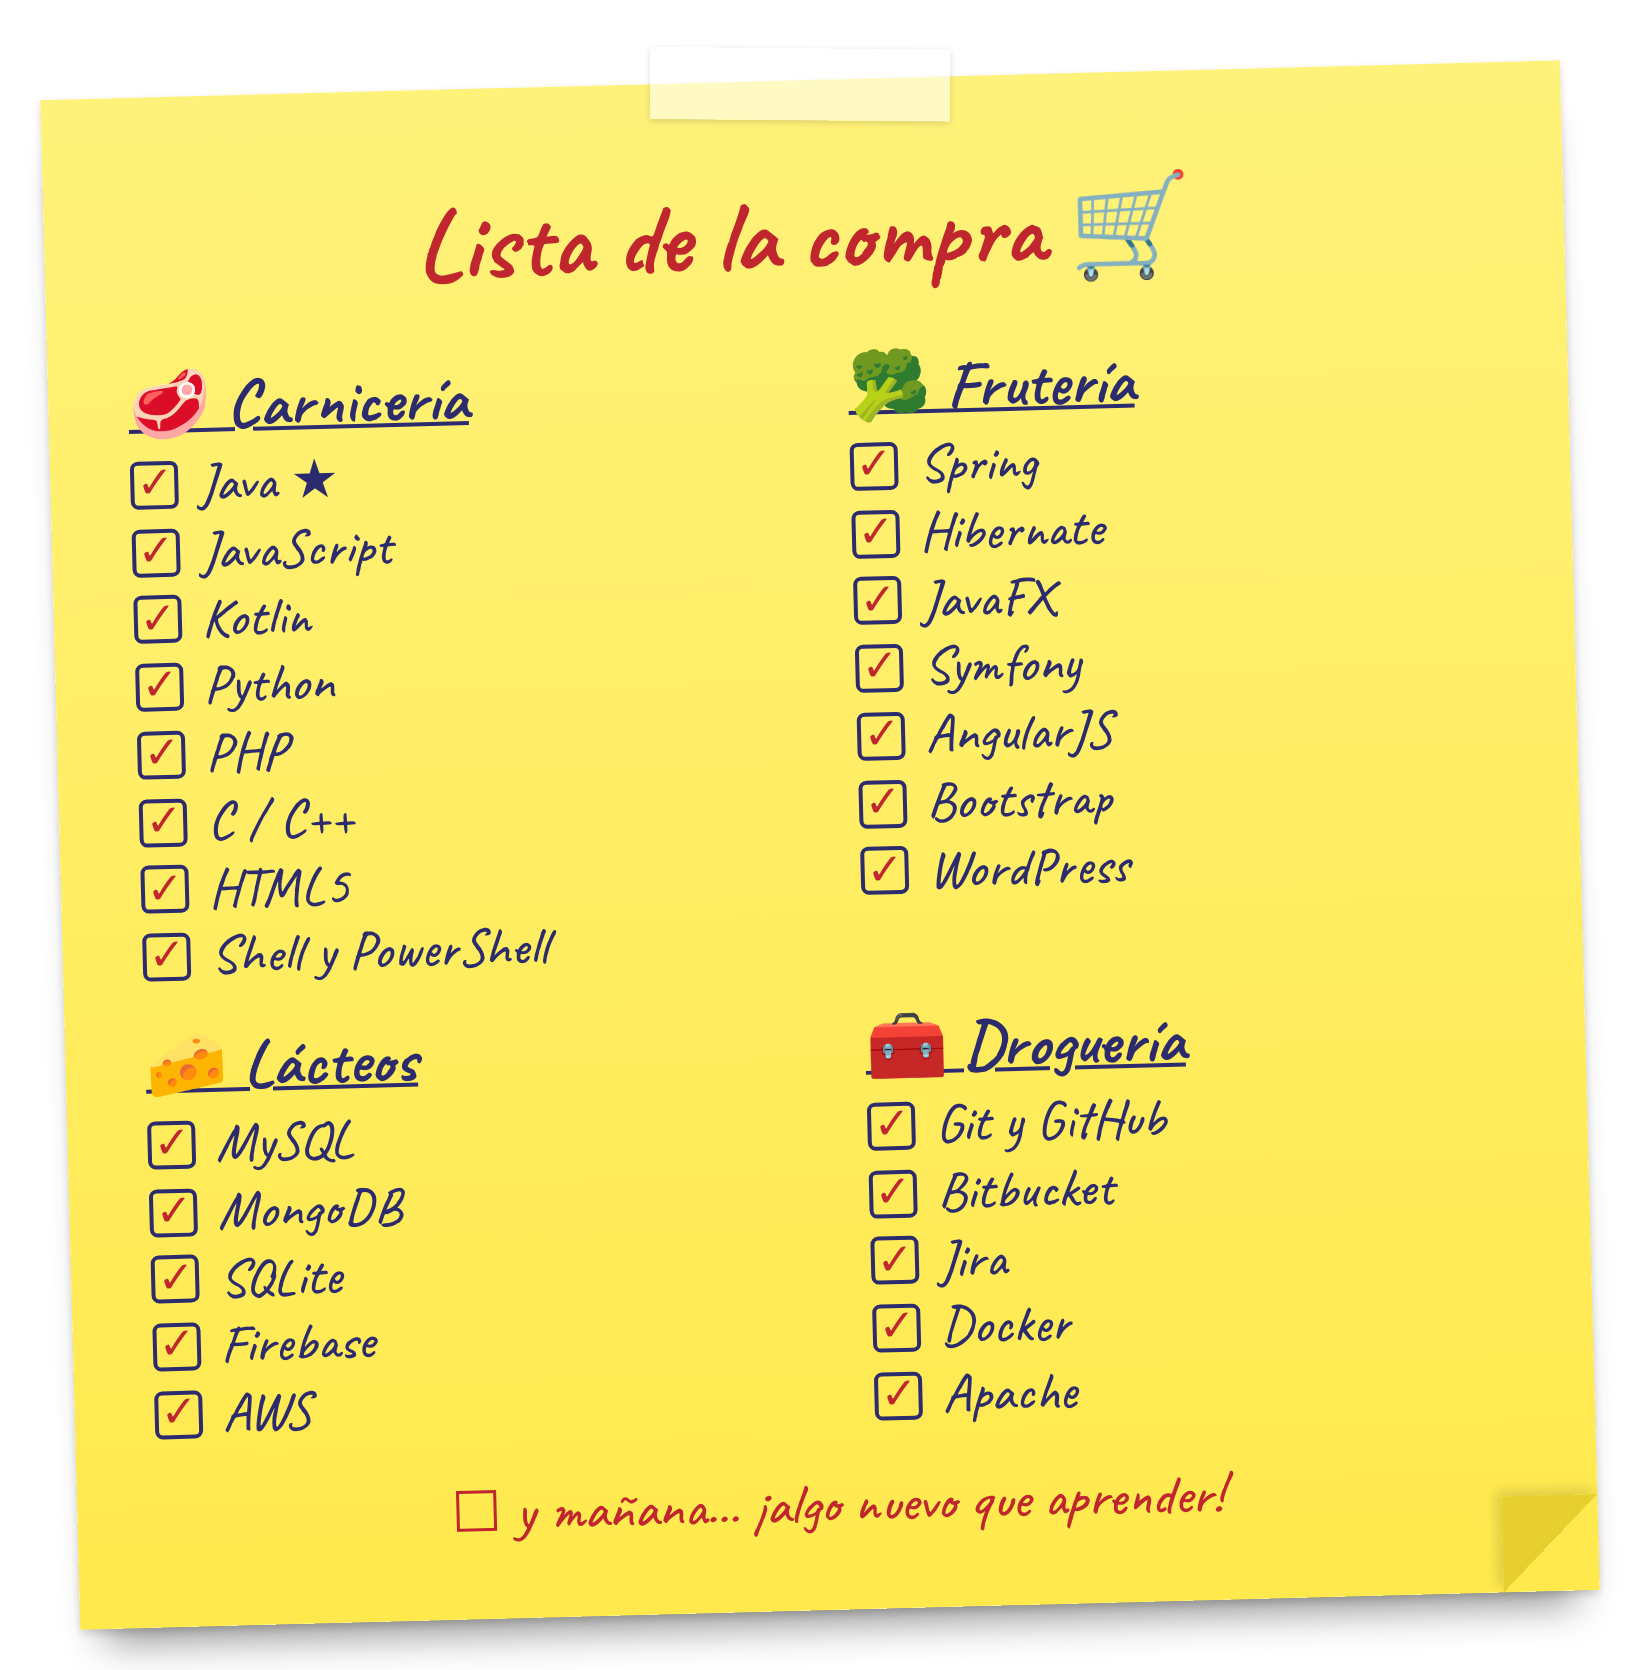
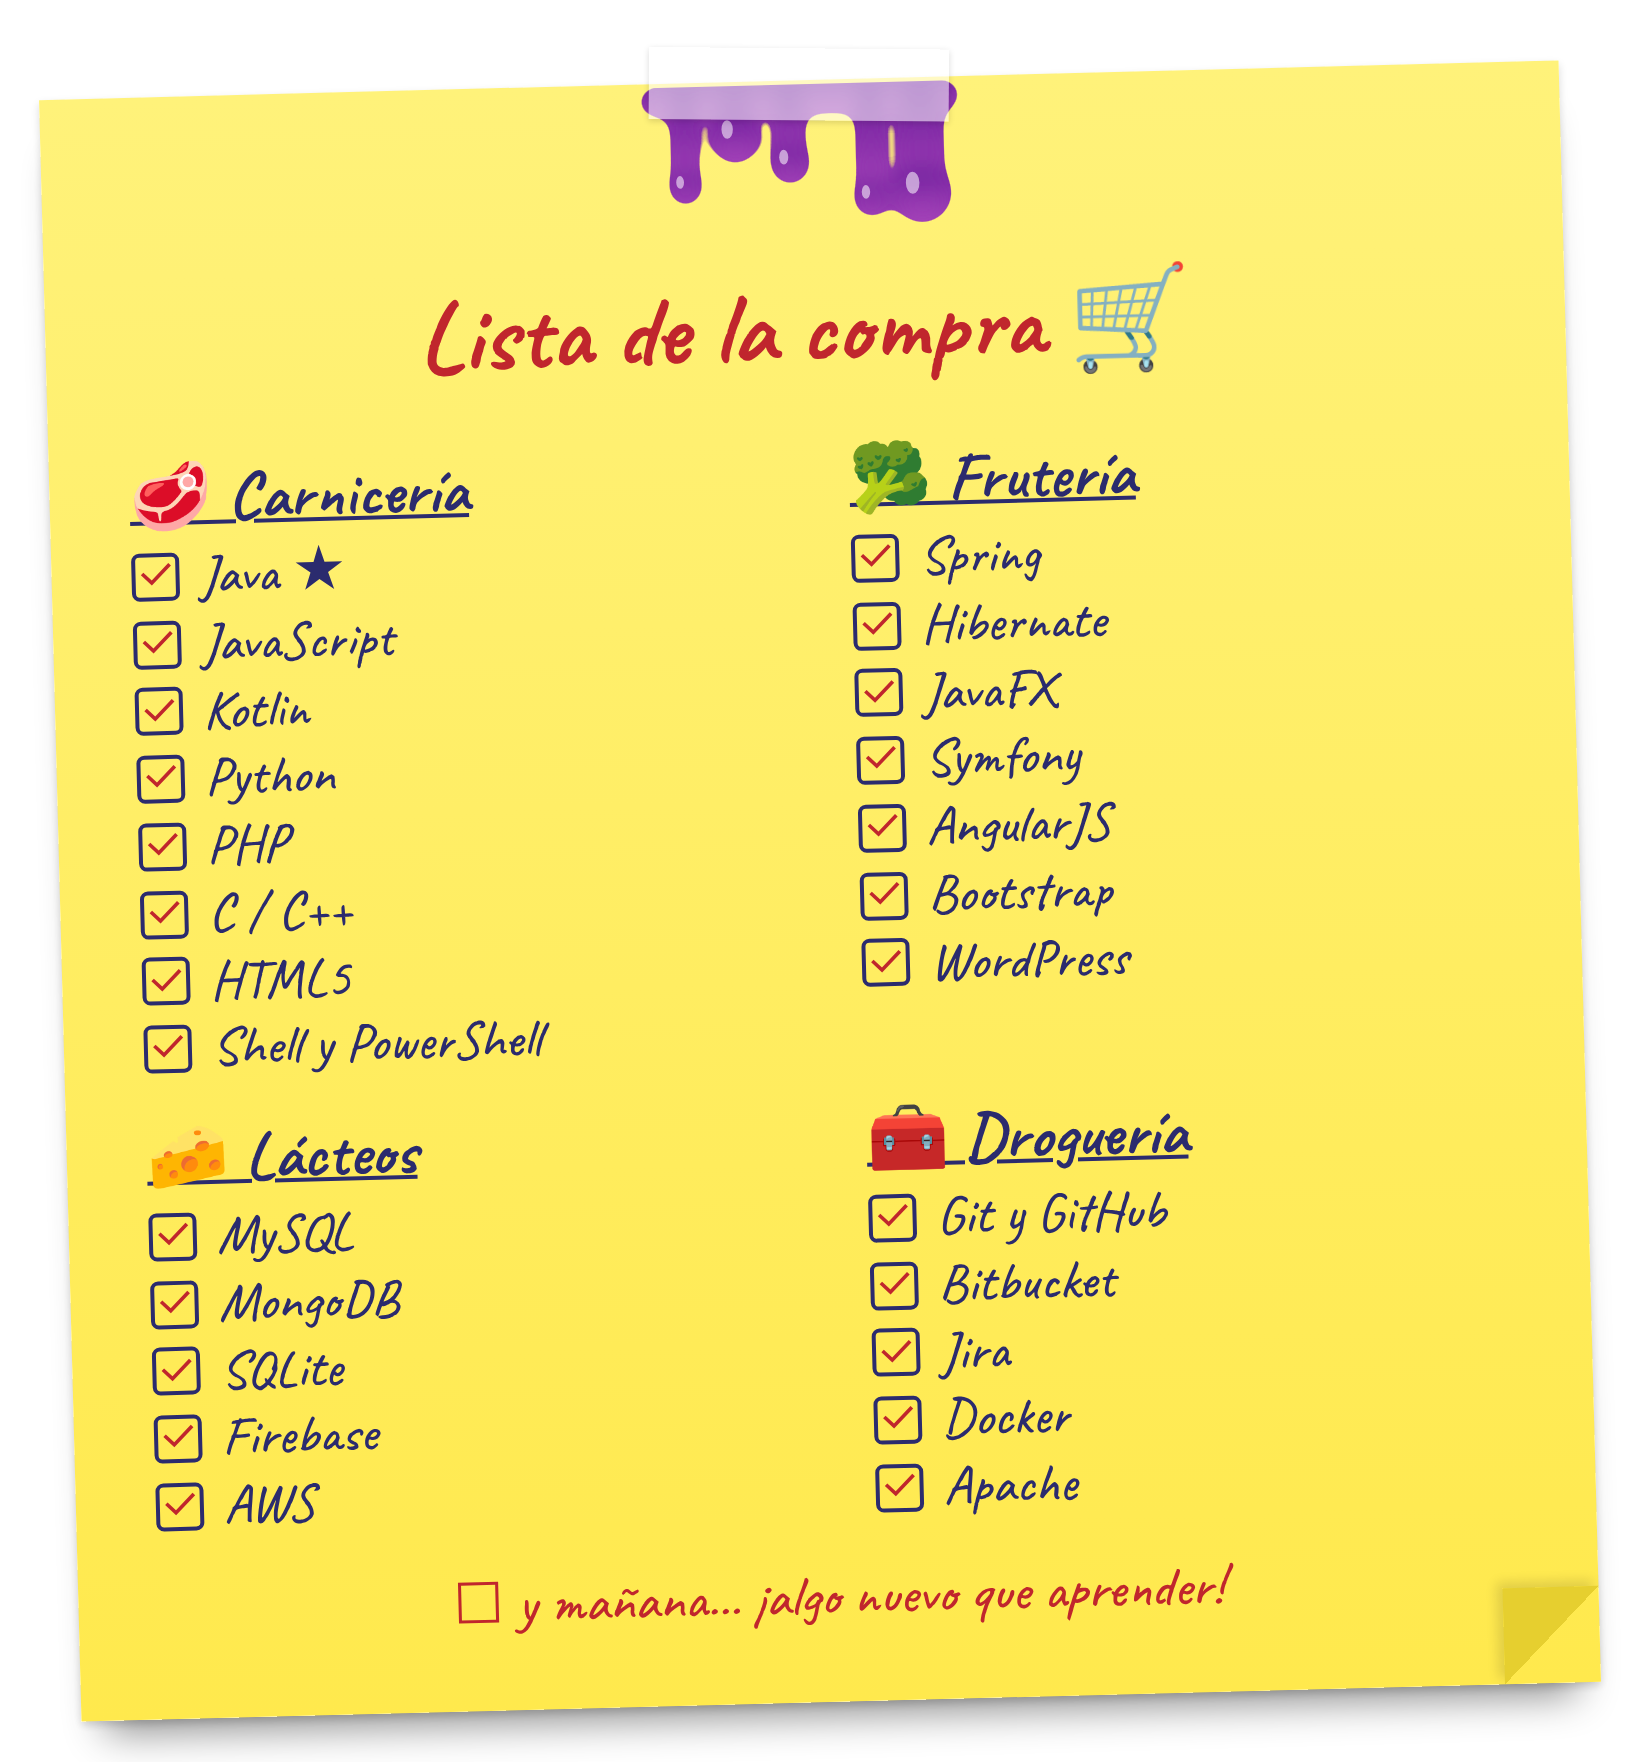
Add sticky purple slime theme to generated images
Purple goo drips from the awning, the offers board, the receipt and the
sticky note tape, and the store name and borders turn purple.

Changed region(s): [[0.0311, 0.0311, 0.7152, 0.8719], [0.2799, 0.5916, 0.7463, 0.9341], [0.9018, 0.8719, 0.964, 0.9653]]

diff --git a/scripts/generate-ticket.js b/scripts/generate-ticket.js
@@ -113,14 +113,16 @@ function render({ items, repos, stars, followers }, now) {
 
   return `<!doctype html><html><head><meta charset="utf-8"><style>
 body{margin:0;background:#e9e4da;display:flex;justify-content:center;padding:40px 0}
-.t{width:420px;background:#fffef9;padding:28px 26px 36px;font-family:"Courier New",Courier,monospace;font-size:15px;color:#222;
+.t{position:relative;overflow:hidden;width:420px;background:#fffef9;padding:64px 26px 36px;font-family:"Courier New",Courier,monospace;font-size:15px;color:#222;
  -webkit-mask:conic-gradient(from -45deg at bottom,#0000,#000 1deg 89deg,#0000 90deg) bottom/18px 100% repeat-x}
-.c{text-align:center}.big{font-size:24px;font-weight:bold;letter-spacing:2px}
+.c{text-align:center}.big{font-size:24px;font-weight:bold;letter-spacing:2px;color:#6a1b9a}
+.slime{position:absolute;top:0;left:0}
 hr{border:0;border-top:2px dashed #555;margin:12px 0}
 .r{display:flex;justify-content:space-between;margin:3px 0}
 .h{font-weight:bold}.tot{font-size:20px;font-weight:bold}.s{font-size:12px;color:#444}
 .bar{height:56px;margin:14px auto 4px;width:300px;background:repeating-linear-gradient(90deg,#000 0 2px,#fffef9 2px 4px,#000 4px 5px,#fffef9 5px 8px,#000 8px 11px,#fffef9 11px 12px,#000 12px 13px,#fffef9 13px 16px)}
 </style></head><body><div class="t">
+${slime(472, 5, { band: 6, min: 8, max: 34, gap: 38 })}
 <div class="c big">🛒 StickyTM</div>
 <div class="c">Productos frescos de código</div>
 <div class="c s">C/ Fullstack, 1 · España<br>Contacto: isaacsanz@proton.me</div>
@@ -145,6 +147,35 @@ ${extra}
 </div></body></html>`;
 }
 
+// Mejunje morado que gotea: una franja con gotas que cuelgan, fundidas con un filtro "goo".
+function slime(width, seed, { band = 16, min = 18, max = 70, gap = 46, rounded = false } = {}) {
+  let r = seed;
+  const rnd = () => ((r = (r * 9301 + 49297) % 233280) / 233280);
+  const count = Math.max(1, Math.round(width / gap));
+  const pad = rounded ? 16 : 0;
+  const height = band + max + 40;
+  const id = `goo${seed}`;
+  // Sin bordes redondeados la franja se sale por los lados para cubrir todo el ancho.
+  let blobs = rounded
+    ? `<rect x="10" y="0" width="${width - 20}" height="${band}" rx="${band / 2}"/>`
+    : `<rect x="-20" y="-20" width="${width + 40}" height="${band + 20}"/>`;
+  let shine = '';
+  for (let i = 0; i < count; i++) {
+    const x = pad + ((i + 0.2 + rnd() * 0.6) * (width - 2 * pad)) / count;
+    const w = 9 + rnd() * 14;
+    const len = band + min + rnd() * (max - min);
+    blobs += `<rect x="${x - w / 2}" y="0" width="${w}" height="${len}" rx="${w / 2}"/>`;
+    blobs += `<circle cx="${x}" cy="${len - w * 0.3}" r="${w * 0.68}"/>`;
+    shine += `<ellipse cx="${x - w * 0.22}" cy="${len - w * 0.55}" rx="${w * 0.16}" ry="${w * 0.26}" fill="#fff" opacity=".55"/>`;
+    if (rnd() < 0.3) blobs += `<circle cx="${x}" cy="${len + 14 + rnd() * 10}" r="${w * 0.36}"/>`;
+  }
+  return `<svg class="slime" width="${width}" height="${height}" viewBox="0 0 ${width} ${height}" xmlns="http://www.w3.org/2000/svg">
+<defs><filter id="${id}" x="-10%" y="-10%" width="120%" height="130%"><feGaussianBlur stdDeviation="5"/><feColorMatrix values="1 0 0 0 0 0 1 0 0 0 0 0 1 0 0 0 0 0 22 -9"/></filter>
+<linearGradient id="${id}g" x1="0" y1="0" x2="0" y2="1"><stop offset="0" stop-color="#6a1b9a"/><stop offset="1" stop-color="#ab47bc"/></linearGradient></defs>
+<g filter="url(#${id})" fill="url(#${id}g)">${blobs}</g>
+${rounded ? '' : `<rect x="0" y="3" width="${width}" height="3" fill="#fff" opacity=".25"/>`}${shine}</svg>`;
+}
+
 // Fachada del supermercado para la cabecera del README.
 function renderBanner() {
   const shelf = ['☕', '🍎', '🥖', '🧀', '🥫', '🍪', '🥛', '🍌', '🧃', '🍫', '🥚', '🍕']
@@ -153,29 +184,33 @@ function renderBanner() {
 <link href="https://fonts.googleapis.com/css2?family=Rubik:wght@500;800;900&display=swap" rel="stylesheet">
 <style>
 body{margin:0;background:transparent;font-family:Rubik,Arial,sans-serif}
-.b{width:820px;margin:10px;border-radius:18px;overflow:hidden;border:6px solid #e30613;background:#fff8e1;box-sizing:border-box}
+.b{position:relative;width:820px;margin:10px;border-radius:18px;overflow:hidden;border:6px solid #7b1fa2;background:#fff8e1;box-sizing:border-box}
+.slime{position:absolute;left:0;pointer-events:none}
+.b>.slime{top:78px;z-index:2}
 .awning{height:64px;background:repeating-linear-gradient(90deg,#e30613 0 46px,#fff 46px 92px);position:relative}
 .awning:after{content:"";position:absolute;left:0;right:0;bottom:-22px;height:23px;
  background:radial-gradient(circle at 23px 0,#e30613 22px,transparent 23px) 0 0/92px 23px repeat-x,
  radial-gradient(circle at 23px 0,#fff 22px,transparent 23px) 46px 0/92px 23px repeat-x}
-.sign{margin:42px 34px 0;background:#ffd400;border-radius:14px;padding:18px 26px;display:flex;align-items:center;gap:22px;
+.sign{position:relative;margin:52px 34px 0;background:#ffd400;border-radius:14px;padding:22px 26px;display:flex;align-items:center;gap:22px;
  box-shadow:0 8px 0 #c9a800}
 .cart{font-size:78px;line-height:1}
-.name{white-space:nowrap;font-weight:900;font-size:54px;color:#e30613;line-height:.95;letter-spacing:1px;text-shadow:3px 3px 0 #fff}
-.tag{font-weight:800;font-size:22px;color:#1a1a1a;margin-top:6px}
+.name{position:relative;isolation:isolate;white-space:nowrap;font-weight:900;font-size:58px;line-height:.95;letter-spacing:1px;
+ color:#8e24aa;text-shadow:0 2px 0 #4a148c,3px 4px 0 #fff}
+.tag{font-weight:800;font-size:22px;color:#1a1a1a;margin-top:8px}
 .open{margin-left:auto;text-align:center;border:4px solid #00e676;border-radius:12px;padding:8px 12px;color:#00e676;
  background:#102a1b;font-weight:900;font-size:22px;line-height:1.05;text-shadow:0 0 8px #00e676;box-shadow:0 0 14px #00e676;transform:rotate(4deg)}
 .open small{display:block;font-size:15px;color:#b9f6ca}
 .shelf{display:flex;justify-content:space-around;margin:26px 34px 0;padding:0 0 6px;border-bottom:10px solid #8d5a2b;font-size:38px}
-.strip{margin-top:22px;background:#1a1a1a;color:#ffd400;font-weight:800;font-size:20px;letter-spacing:3px;padding:12px 0;text-align:center;white-space:nowrap}
+.strip{margin-top:22px;background:#4a148c;color:#ffd400;font-weight:800;font-size:20px;letter-spacing:3px;padding:12px 0;text-align:center;white-space:nowrap}
 .strip b{color:#fff}
 </style></head><body><div class="b">
 <div class="awning"></div>
+${slime(808, 7, { band: 6, min: 10, max: 56, gap: 40 })}
 <div class="sign"><div class="cart">🛒</div>
 <div><div class="name">StickyTM</div><div class="tag">Fullstack Developer · España 🇪🇸</div></div>
 <div class="open">ABIERTO<br>24H<small>siempre</small></div></div>
 <div class="shelf">${shelf}</div>
-<div class="strip">PRODUCTOS FRESCOS DE CÓDIGO <b>·</b> SIEMPRE APRENDIENDO</div>
+<div class="strip">CÓDIGO FRESCO Y PEGAJOSO <b>·</b> SIEMPRE APRENDIENDO</div>
 </div></body></html>`;
 }
 
@@ -196,13 +231,14 @@ function renderList() {
 <style>
 body{margin:0;background:transparent}
 .wrap{padding:40px 30px 30px;width:760px}
-.note{position:relative;transform:rotate(-1.5deg);padding:46px 40px 36px;color:#2b2b6e;
+.note{position:relative;transform:rotate(-1.5deg);padding:92px 40px 36px;color:#2b2b6e;
  font-family:Caveat,"Comic Sans MS",cursive;font-size:27px;
  background:linear-gradient(180deg,#fff27a 0%,#ffe94d 100%);
  box-shadow:0 18px 20px -12px rgba(0,0,0,.45),0 2px 4px rgba(0,0,0,.15)}
 .note:after{content:"";position:absolute;right:0;bottom:0;width:48px;height:48px;
  background:linear-gradient(135deg,#e6cf2f 0 50%,transparent 50%);box-shadow:-3px -3px 6px rgba(0,0,0,.12)}
-.tape{position:absolute;top:-16px;left:50%;width:150px;height:36px;margin-left:-75px;transform:rotate(2deg);
+.note>.slime{position:absolute;top:2px;left:50%;margin-left:-90px}
+.tape{z-index:1;position:absolute;top:-16px;left:50%;width:150px;height:36px;margin-left:-75px;transform:rotate(2deg);
  background:rgba(255,255,255,.55);box-shadow:0 1px 3px rgba(0,0,0,.15)}
 h1{margin:0 0 14px;font-size:50px;text-align:center;color:#c0262d}
 .cols{display:grid;grid-template-columns:1fr 1fr;gap:6px 40px}
@@ -210,7 +246,7 @@ h2{margin:10px 0 2px;font-size:33px;text-decoration:underline;text-decoration-th
 .it{display:flex;align-items:center;gap:10px;line-height:1.25}
 .box{display:inline-flex;width:20px;height:20px;border:2px solid #2b2b6e;border-radius:4px;align-items:center;justify-content:center;font-size:22px;color:#c0262d}
 .foot{margin-top:18px;text-align:center;font-size:28px;color:#c0262d}
-</style></head><body><div class="wrap"><div class="note"><div class="tape"></div>
+</style></head><body><div class="wrap"><div class="note">${slime(180, 9, { band: 14, min: 12, max: 52, gap: 34, rounded: true })}<div class="tape"></div>
 <h1>Lista de la compra 🛒</h1>
 <div class="cols">${sections}</div>
 <div class="foot">☐ y mañana… ¡algo nuevo que aprender!</div>
@@ -241,7 +277,8 @@ function renderOffers(stats) {
 <link href="https://fonts.googleapis.com/css2?family=Rubik:wght@500;800;900&display=swap" rel="stylesheet">
 <style>
 body{margin:0;background:transparent;font-family:Rubik,Arial,sans-serif;font-weight:800}
-.f{width:820px;margin:10px;background:#ffd400;border:6px solid #e30613;border-radius:18px;padding:22px 24px 26px;box-sizing:border-box;color:#1a1a1a}
+.f{position:relative;overflow:hidden;width:820px;margin:10px;background:#ffd400;border:6px solid #7b1fa2;border-radius:18px;padding:62px 24px 26px;box-sizing:border-box;color:#1a1a1a}
+.slime{position:absolute;top:0;left:0;pointer-events:none}
 .top{display:flex;justify-content:space-between;align-items:center}
 h1{margin:0;font-size:40px;color:#e30613;letter-spacing:1px;text-transform:uppercase}
 .badge{background:#e30613;color:#fff;font-size:18px;padding:10px 16px;border-radius:50%;transform:rotate(8deg);text-align:center;line-height:1.1}
@@ -256,6 +293,7 @@ h2{font-size:20px;margin:20px 0 8px;color:#e30613}
 .ln{width:110px}.pct{width:70px;text-align:right}
 .bar{flex:1;height:14px;background:#f1f1f1;border-radius:7px;overflow:hidden}.bar i{display:block;height:100%;background:#e30613}
 </style></head><body><div class="f">
+${slime(808, 11, { band: 8, min: 8, max: 40, gap: 50 })}
 <div class="top"><h1>🏷 Ofertas de la semana</h1><div class="badge">¡SOLO<br>HOY!</div></div>
 <div class="lead">Estadísticas frescas de github.com/${esc(USER)}</div>
 <div class="grid">${tags}</div>
